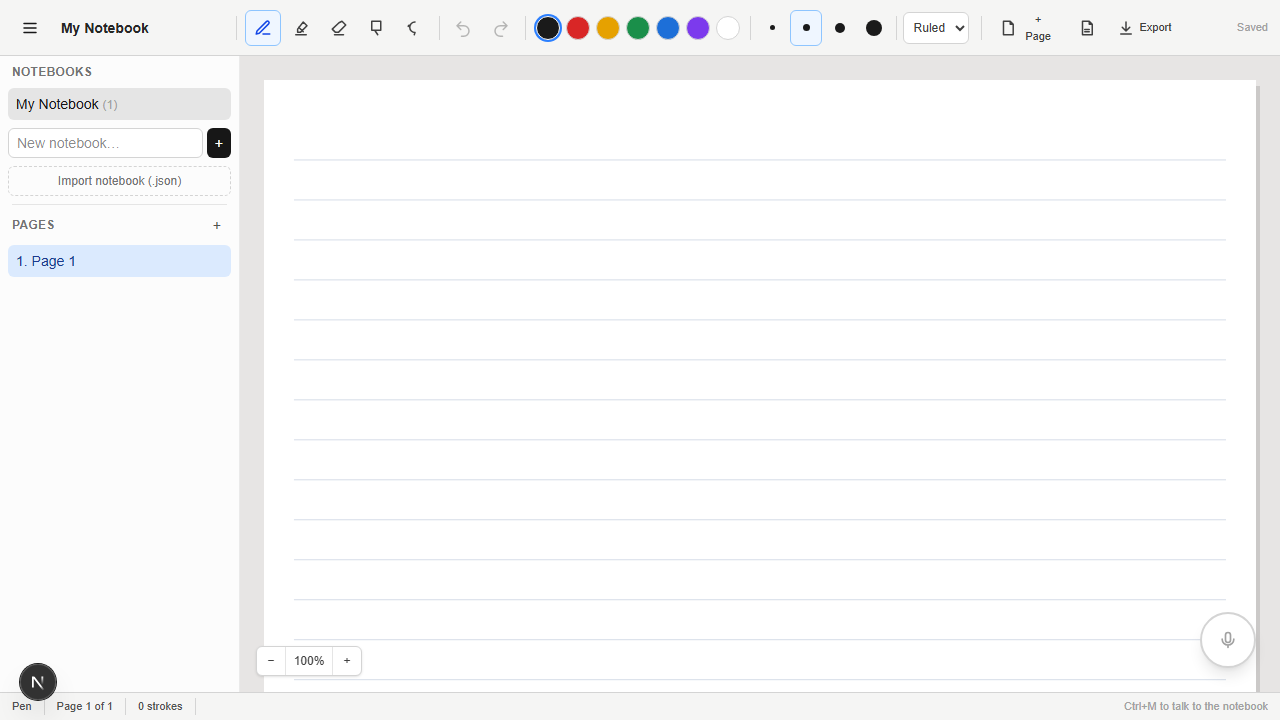
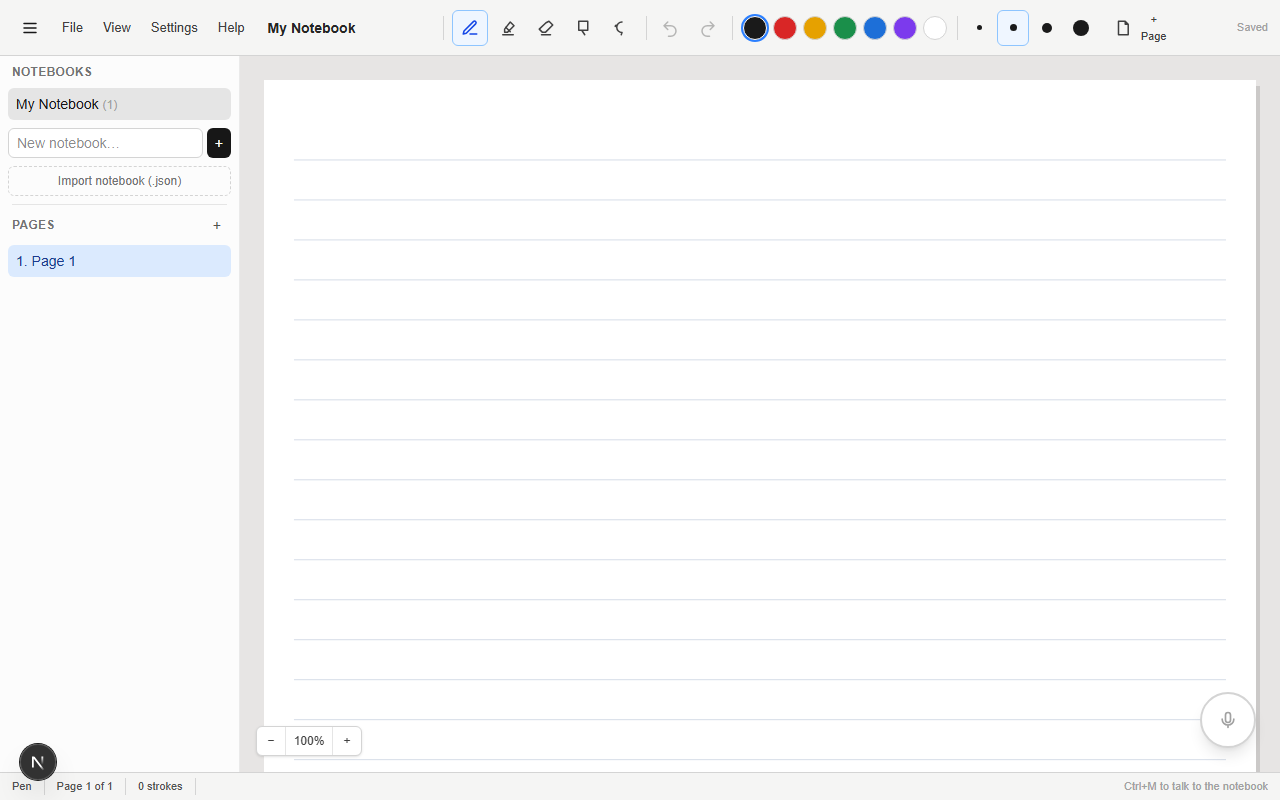
docs: bring README/AGENTS in line with the shipped app; refresh screenshots
README described the pre-tutor architecture: it referenced the deleted
AssistantPanel, per-page history (contradicting the NotebookHistory
section), schema v1 as current, "LaTeX rendered as styled text", and a
next-milestone section for features that already shipped.

- Working features now list the app menu (desktop menubar + mobile
  sheet), the voice tutor commands, KaTeX, verification badges, PDF
  backgrounds, and per-capability model routing.
- Limitations corrected: eraser splits strokes under the cursor rather
  than removing whole strokes; stylus barrel/eraser buttons are not
  detected (also struck through in the manual checklist); voice needs
  Chrome/Edge-class speech APIs; undo isn't kept across reloads.
- Architecture tree matches the real tree (menu/, VoiceDock, StatusBar,
  MathTex, useVoiceAssistant, lib/math/*, lib/pdf, strokeFont, handStyle,
  capture, commands, routing, mockLLM...). "AI-readiness hooks (no UI)"
  became the actual AI insertion API.
- Schema section documents v1→v3; the version-bump recipe is genericized.
- Testing counts updated (290 unit, e2e prod + mock suites, commands).
- Screenshots regenerated with the new UI.
- AGENTS.md: PageHistory→NotebookHistory, menu dir + apiRef note, and
  the workflow is now feature-branch + PR (no direct pushes to main).

Generated with [Devin](https://devin.ai)

diff --git a/README.md b/README.md
@@ -20,12 +20,14 @@ The notebook remains usable on narrow screens with a collapsible, scrollable sid
 
 - **Project name:** Margin AI
 - **Short description:** Write handwritten notes with mouse, touch, or stylus across
-  multiple notebooks and pages. Everything autosaves to the browser (IndexedDB) and
-  survives refresh. AI-generated page elements are stored separately from user ink.
+  multiple notebooks and pages — then ask a voice math tutor to check, finish, hint at,
+  or graph what you wrote. Everything autosaves to the browser (IndexedDB) and survives
+  refresh. AI-generated content is stored separately from user ink.
 - **Team:** TODO — participant names and GitHub handles; maximum 4 members.
 - **Working demo:** Local — `npm install && npm run dev`, open http://localhost:3000.
 - **Technology stack:** Next.js 16 (App Router), React 19, TypeScript (strict),
-  Tailwind CSS 4, HTML Canvas, Pointer Events, IndexedDB (`idb`), `zod`, Vitest.
+  Tailwind CSS 4, HTML Canvas, Pointer Events, IndexedDB (`idb`), `zod`, Vitest,
+  Playwright, KaTeX, mathjs, pdfjs-dist.
 
 ### Run the project
 
@@ -33,10 +35,16 @@ The notebook remains usable on narrow screens with a collapsible, scrollable sid
 2. `npm install`
 3. Environment (only needed for the assistant): copy `.env.example` to `.env.local` and set
    `LLM_API_KEY`. Optional: `LLM_BASE_URL` (any OpenAI-compatible endpoint, default
-   `https://api.openai.com/v1`), `LLM_MODEL` (default `gpt-4o-mini`), `LLM_TIMEOUT_MS`.
-   The notebook works fully without these; the assistant then reports that it is not configured.
+   `https://api.openai.com/v1`; Gemini's documented OpenAI-compatible URL works too),
+   `LLM_MODEL` (default `gpt-4o-mini`), `LLM_FAST_MODEL`/`LLM_VISION_MODEL`/
+   `LLM_REASONING_MODEL` (per-capability routing, all fall back to `LLM_MODEL`;
+   vision requests need `LLM_VISION_MODEL` or an image-capable default), `LLM_TIMEOUT_MS`.
+   The notebook works fully without these; the voice assistant then reports that it is
+   not configured. For development without a key set `LLM_MOCK=true` (dev/test only —
+   refused in production) to get deterministic answers from a mock provider.
 4. `npm run dev` → http://localhost:3000 (or `npm run build && npm start`)
-5. Checks: `npm test` (Vitest), `npm run typecheck`, `npm run lint`.
+5. Checks: `npm test` (Vitest), `npm run typecheck`, `npm run lint`,
+   `npm run test:e2e`, `npm run test:e2e:mock` (see Testing).
 
 ### Current status
 
@@ -44,27 +52,41 @@ The notebook remains usable on narrow screens with a collapsible, scrollable sid
   tools with pressure-aware strokes; notebook-wide undo/redo; notebook and page
   management (create, rename, reorder, and delete with confirmation); blank, ruled,
   and grid paper; debounced autosave with save status; JSON export/import with schema
-  validation; PDF page import; multi-tab conflict warning; responsive collapsible
-  sidebar; and keyboard shortcuts (`P`/`H`/`E`/`S`/`L`, `Ctrl+Z`/`Ctrl+Y`, `Delete`,
-  `Esc`).
-- **Voice assistant:** use the microphone button or `Ctrl+M` to ask a question about
-  the current page. Margin AI captures the selected region (or the whole page), sends
-  the request through the server-only `POST /api/ask` route, and reads the response
-  aloud when browser speech APIs are available. Configure an OpenAI-compatible provider
-  to enable it; note-taking works without an API key.
-- **AI-ready document model:** user ink and AI content are stored on separate layers.
-  Structured answers are validated before use and can be laid out as typed page
+  validation and v1→v3 migration; PDF page import as locked page backgrounds;
+  multi-tab conflict warning; responsive collapsible sidebar; zoom controls; and
+  keyboard shortcuts (`P`/`H`/`E`/`S`/`L`, `Ctrl+Z`/`Ctrl+Y`, `Delete`, `Esc`,
+  `Ctrl+M` for voice).
+- **App menu:** a File/View/Settings/Help menubar on desktop and a bottom sheet on
+  mobile (same item tree, glass style). File handles notebooks, PDF/JSON import and
+  export; View handles sidebar, paper style, zoom, and AI-layer controls; Settings
+  shows the voice toggle and storage status; Help lists every shortcut and voice
+  command.
+- **Voice tutor:** the microphone orb (or `Ctrl+M`) starts hands-free dictation.
+  Recognized commands include *"check my work"*, *"finish this"*, *"hint"*,
+  *"graph this"*, *"read my handwriting"*, *"explain this"*, *"undo"* and
+  *"new page"* — anything else becomes a question about the selection (or page).
+  Answers are written onto the page's AI layer beside the selected ink, in a pen
+  stroke style learned from your own handwriting, and read aloud. Check mode places
+  a tick/cross mark beside each handwriting line; graphs are plotted from real
+  mathjs sampling; and where a deterministic check ran, the answer carries a
+  Verified / Not verified badge. KaTeX renders LaTeX in answer previews.
+- **AI-ready document model:** user ink and AI content are stored on separate layers
+  (schema v3). Structured answers are validated before use and laid out as typed page
   elements. AI content can be hidden, shown, cleared, and undone without modifying
   the user's strokes.
-- **Known limitations:** browsers do not expose reliable palm data, the eraser removes
-  whole strokes only, and multi-tab editing warns but does not merge changes. The voice
-  assistant has no conversation memory, does not stream, and depends on browser speech
-  recognition/synthesis support. LaTeX is currently rendered as styled text. Production
+- **Known limitations:** the eraser splits strokes where the cursor crosses them
+  (whole-stroke delete exists via select + Delete); stylus barrel/eraser-end buttons
+  are not detected yet; the voice assistant needs browser speech recognition and
+  synthesis (Chrome/Edge — the mic orb and Settings entry report unsupported
+  browsers); answers do not stream and there is no conversation memory; undo history
+  is not kept across reloads; multi-tab editing warns but does not merge; production
   deployments need an external per-client rate-limiting gateway (see below).
 - **Libraries, APIs, and public datasets used:**
   [Next.js](https://nextjs.org), [React](https://react.dev),
   [Tailwind CSS](https://tailwindcss.com), [idb](https://github.com/jakearchibald/idb),
   [zod](https://zod.dev), [Vitest](https://vitest.dev),
+  [Playwright](https://playwright.dev), [KaTeX](https://katex.org),
+  [mathjs](https://mathjs.org), [pdfjs-dist](https://mozilla.github.io/pdf.js/),
   [fake-indexeddb](https://github.com/dumbmatter/fakeIndexedDB).
   External API: one OpenAI-compatible chat completions provider of your choice (configured
   via `LLM_BASE_URL`), used only by the assistant. No datasets.
@@ -116,29 +138,56 @@ and full questions are not logged or included in error responses.
 
 ```
 app/                    Next.js App Router shell (single route)
+  api/ask/route.ts      POST endpoint: request validation, delegates to answerService
 components/
-  canvas/PaperCanvas    canvas element: pointer input, DPR handling, rAF paint loop
-  notebook/             Toolbar, Sidebar, NotebookApp (wiring + shortcuts)
+  canvas/PaperCanvas    canvas element: pointer input, DPR handling, rAF paint loop,
+                        zoom apiRef for the View menu
+  menu/                 MenuBar (desktop dropdowns), MobileSheet (bottom sheet),
+                        MenuList + menuModel (one item tree drives both)
+  notebook/             Toolbar, Sidebar, StatusBar, VoiceDock, NotebookApp
+                        (wiring, shortcuts, menu tree), AnswerView (typed answer
+                        blocks), MathTex (KaTeX)
   ErrorBoundary.tsx
+hooks/
+  useNotebook.ts        app store: doc state, tools, autosave, conflicts, AI ops
+  useVoiceAssistant.ts  dictation → intent parse → /api/ask → insert + speak
 lib/
   document/types.ts     document model (Notebook → Page → Layer → Stroke), factories
-  document/schema.ts    zod validation, schemaVersion, migration entry point
-  drawing/geometry.ts   hit-testing, rect intersection, RDP point simplification
-  drawing/coords.ts     client↔page coordinate conversion, fit-scale
-  drawing/render.ts     paper background, smoothed stroke rendering (pressure width)
-  history/history.ts    PageHistory: undoable ops (addStroke, eraseStrokes)
+  document/schema.ts    zod validation, schemaVersion 1–3, migrateNotebook()
+  drawing/geometry.ts   hit-testing, rect/lasso intersection, RDP, stroke splitting
+  drawing/coords.ts     client↔page coordinate conversion, fit-scale, scroll
+  drawing/gesture.ts    pointer gesture state machine (pen/eraser/select/lasso)
+  drawing/render.ts     paper, background image, smoothed pressure strokes
+  drawing/strokeFont.ts AI "hand" ink: glyph strokes in a pen-like style
+  drawing/handStyle.ts  learns the user's handwriting profile for AI ink
+  drawing/capture.ts    offscreen PNG crop of selection/page for vision requests
+  history/history.ts    NotebookHistory: notebook-wide undoable ops
   storage/db.ts         IndexedDB via idb (notebooks + meta stores)
+  storage/autosave.ts   debounced writer with retry + status reporting
   storage/exportImport.ts
-app/api/ask/route.ts    POST endpoint: request validation, delegates to answerService
-lib/ai/llm.ts           server-only OpenAI-compatible client (config from env)
-lib/ai/answerSchema.ts  AnswerDocument Zod schema + block limits (client-safe)
-lib/ai/answerService.ts structured generation: prompt, JSON extraction, validation
-lib/ai/requestProtection.ts  body-size limit + local rate limiting
-lib/ai/types.ts         request/response types and validation shared with the client
-components/notebook/AssistantPanel.tsx   question box + answer list
-components/notebook/AnswerView.tsx       typed renderer for answer blocks
-hooks/useNotebook.ts    app store: doc state, tools, autosave, conflicts, AI ops
-tests/                  Vitest suites (geometry, coords, history, document, storage)
+  ai/llm.ts             server-only OpenAI-compatible client (config from env)
+  ai/answerSchema.ts    AnswerDocument Zod schema + block limits (client-safe)
+  ai/answerService.ts   prompts per tutor mode, JSON extraction, verification
+  ai/requestProtection.ts  body-size limit + local rate limiting
+  ai/routing.ts         fast/vision/reasoning model selection + image payloads
+  ai/commands.ts        transcript → intent parser (tutor/control/ask)
+  ai/answerLayout.ts    lays answer blocks out beside selection or onto pages
+  ai/markLayout.ts      check-mark placement beside handwriting lines
+  ai/contextSchema.ts + contextBuilder.ts   bounded, validated page context
+  ai/imageInput.ts      PNG/JPEG validation for vision requests
+  ai/speech.ts          dictation + speech synthesis wrappers
+  ai/recognition.ts     handwriting-recognition capability boundary (honest "no")
+  ai/mockLLM.ts         deterministic dev/test provider (LLM_MOCK, never in prod)
+  math/verify.ts        deterministic math checks (derivative/equality sampling)
+  math/graph.ts         safe expression sampling → curve polylines
+  math/safeMath.ts      whitelisted mathjs evaluation
+  math/unicodeMath.ts   LaTeX → readable Unicode for handwritten output
+  math/latex.ts         expression → LaTeX for preview
+  math/layoutMath2D.ts  2D fraction/exponent layout in pen strokes
+  pdf/importPdf.ts      pdf.js page→image pipeline with size/page limits
+tests/                  Vitest suites (28 files)
+e2e/                    Playwright: notebook.spec.ts (prod build),
+                        tutor.mock.spec.ts (dev server + LLM_MOCK)
 ```
 
 ### Document model decisions
@@ -150,48 +199,60 @@ tests/                  Vitest suites (geometry, coords, history, document, stor
   merged or overwritten.
 - **Erasing is reversible.** `eraseStrokes` ops record removed strokes + indices and
   append an `EraserOperation` provenance record; undo restores original positions.
-- **Schema versioning.** Version 1 is both the current and oldest supported format.
-  `parseNotebook()` / `migrateNotebook()` validate the complete v1 document, including
-  a user layer on each page. JSON imports and IndexedDB loading/listing use this same
-  policy. Future versions fail with an update instruction; unsupported older versions
-  and malformed versions/documents fail without relabeling or rewriting stored data.
-  No historical migrations exist. Existing v1 defaults for omitted page titles and
-  eraser logs remain supported; complete valid v1 documents retain all modeled data.
-  JSON exports still use `format: "margin-ai-notebook"` and `formatVersion: 1`;
-  importing intentionally generates a fresh notebook ID and updates `updatedAt`.
-- **History scope.** Undo/redo stacks are per page; page structural ops use
-  confirmations (documented trade-off).
+- **Schema versioning.** Version 3 is current; v1 and v2 documents migrate on load
+  (v1→v2 adds typed `elements` to layers; v2→v3 adds the optional locked page
+  `background` used by PDF import). `parseNotebook()` / `migrateNotebook()` validate
+  the complete document, including a user layer on each page. JSON imports and
+  IndexedDB loading/listing use this same policy. Future versions fail with an update
+  instruction; malformed versions/documents fail without relabeling or rewriting
+  stored data. JSON exports still use `format: "margin-ai-notebook"` and
+  `formatVersion: 1`; importing intentionally generates a fresh notebook ID and
+  updates `updatedAt`.
+- **History scope.** Undo/redo is one notebook-wide stack (see "History policy"
+  under Testing); page structural ops use confirmations (documented trade-off).
 
-### Introducing document schema version 2
+### Adding a document schema version
 
-1. Design the actual feature and v2 fields first; do not add speculative fields or
-   invent a pre-v1 format. Keep the v1 validator available with a literal version 1.
-2. Define a separate v2 validator (literal version 2), update the current TypeScript
-   model/factories, and then bump `SCHEMA_VERSION`. The export envelope version and
-   IndexedDB database version are separate from the document schema version.
-3. Add an explicit v1 → v2 step in `migrateNotebook()`. Dispatch on the input version
-   before applying the current validator. Validate the source with its own schema,
-   transform without mutating input, and validate the result with the v2 schema,
-   including page/user-layer invariants. For later versions, run only consecutive
-   steps (v1 → v2 → v3), validate after each step, and validate the final result with
-   the current schema. A missing step must throw, never jump to the current version.
+Versions 1→3 exist as the worked example (v2 added layer `elements`, v3 added page
+`background`). To add the next version:
+
+1. Design the actual feature and new fields first; do not add speculative fields.
+   Keep every older validator available with its literal version number.
+2. Define a separate validator for the new version (literal version N), update the
+   current TypeScript model/factories, and then bump `SCHEMA_VERSION`. The export
+   envelope version and IndexedDB database version are separate from the document
+   schema version.
+3. Add an explicit (N−1)→N step in `migrateNotebook()`. Dispatch on the input
+   version before applying the current validator. Validate the source with its own
+   schema, transform without mutating input, and validate the result with the new
+   schema, including page/user-layer invariants. Run only consecutive steps
+   (v1→v2→v3), validate after each step, and validate the final result with the
+   current schema. A missing step must throw, never jump to the current version.
 4. Keep transformations deterministic: no clock, random IDs, or external calls.
    Preserve existing IDs, pages, layers, strokes, provenance, and metadata. Repeated
    parsing of the migrated/current document must produce the same data.
-5. Add real v1 fixtures and tests for preservation, source/output validation,
-   repeated migration, missing steps, malformed/future versions, JSON round-trips,
-   and IndexedDB loading. Both entry points must continue using the shared parser.
-6. Run tests, typecheck, lint, and build; document actual compatibility and limitations.
-   Loading currently does not write parsed data back to IndexedDB. Any future
-   migration persistence policy must protect the original on failure.
+5. Add real fixtures of the previous version and tests for preservation,
+   source/output validation, repeated migration, missing steps, malformed/future
+   versions, JSON round-trips, and IndexedDB loading. Both entry points must
+   continue using the shared parser.
+6. Run tests, typecheck, lint, and build; document actual compatibility and
+   limitations. Loading currently does not write parsed data back to IndexedDB.
+   Any future migration persistence policy must protect the original on failure.
 
-### AI-readiness hooks (implemented, no UI)
+### AI insertion API
 
-- `selectInRect(rect)` → region/stroke selection
-- `insertAIStrokes(strokes)` → write AI-authored strokes at document coords
-- `setAILayerVisible(bool)` → toggle the AI layer
-- `author` on every stroke/layer distinguishes provenance; cropped region capture is
-  an offscreen `renderPage` call away.
+AI content reaches the page through one explicit, undoable path — used by the voice
+assistant today and reusable by any future UI:
+
+- `insertAnswer(doc, nearIds?)` → lay a validated `AnswerDocument` out beside the
+  selected strokes (or at the bottom of the page), spilling to new pages as needed
+- `insertCheckMarks(checkBlock, strokeIds, lineCount)` → per-line marks for
+  "check my work"
+- `removeAIGroup(groupId)` / `clearAIContent()` / `setAILayerVisible(bool)` →
+  manage AI content; all undoable, never touching user ink
+- `selectInRect(rect)` / `selectInLasso(poly)` → region selection that scopes both
+  context and image capture
+- `author` on every stroke/layer distinguishes provenance.
 
 ## Testing
 
@@ -199,14 +260,19 @@ tests/                  Vitest suites (geometry, coords, history, document, stor
 
 ```bash
 npx playwright install chromium   # once: downloads the browser binary
-npm run test:e2e                  # builds, starts `next start` on :3100, runs e2e/
+npm run test:e2e                  # builds, starts `next start` on :3100, runs notebook.spec.ts
+npm run test:e2e:mock             # dev server on :3200 with LLM_MOCK=true, runs tutor.mock.spec.ts
 ```
 
-`/api/ask` is mocked with deterministic fixtures — no provider calls. The canvas exposes
-read-only `data-user-strokes`, `data-ai-elements`, and `data-ai-visible` attributes for
-the current page so tests can assert document state. Covers drawing/undo/erase,
-multi-page AI insertion undo from another page + redo, reload persistence, and AI-layer
-hide/clear with undo.
+`/api/ask` is mocked with deterministic fixtures — no provider calls, no API charges.
+The canvas exposes read-only `data-user-strokes`, `data-ai-elements`, `data-ai-visible`,
+and `data-has-background` attributes for the current page so tests can assert document
+state, and `window.__margin.run(text)` drives the same code path a spoken utterance
+hits. The prod suite covers drawing/undo/erase, multi-page AI insertion undo from
+another page + redo, reload persistence, and AI-layer hide/clear via the View menu.
+The mock walkthrough covers the voice commands end-to-end: lasso → check marks →
+finish/hint → graph → PDF import → reload → export/import → mobile menu sheet —
+plus legacy v1 export migration.
 
 ### History policy
 
@@ -219,35 +285,45 @@ are undoable.
 
 ### Unit tests (Vitest)
 
-173 tests cover stroke geometry, coordinate conversion under resize, undo/redo,
-eraser transactions and gesture cancellation, validation/migration, user↔AI layer
-separation, IndexedDB save/reload, autosave, the LLM client and request protection,
-the answer schema (all block types, limits, invalid inputs), the generation service
-(JSON extraction, json_schema→json_object fallback, bounded retry, error mapping),
-and the `/api/ask` route. A manual verification checklist follows.
+290 tests across 28 files cover stroke geometry, lasso/gesture state machine,
+coordinate conversion under resize, notebook-wide undo/redo, eraser transactions,
+schema v1–v3 validation/migration, user↔AI layer separation, IndexedDB save/reload,
+autosave, handwriting-style analysis and glyph rendering, answer layout and mark
+placement, the answer schema (all block types, limits, invalid inputs), the
+generation service (prompts per mode, JSON extraction, bounded retry, error mapping),
+intent parsing, model routing, image validation, deterministic math verification,
+graph sampling and unsafe-expression rejection, PDF import, speech text, the LLM
+client, request protection, and the `/api/ask` route. A manual verification
+checklist follows.
 
 ### Manual verification checklist
 
 **Mouse**
 - [ ] Draw smooth curves; no jagged straight segments between distant points
 - [ ] Highlighter is translucent
-- [ ] Eraser removes whole strokes under the cursor, not neighboring ones
+- [ ] Eraser removes only the ink under the cursor (strokes split); neighbors are untouched
 - [ ] Undo/redo restores the exact stroke order
 - [ ] Refresh mid-session — all strokes return
 
 **Touchscreen**
 - [ ] Drawing doesn't scroll the page; sidebar still scrolls normally
 - [ ] Sidebar overlays the canvas on small screens; tools remain reachable
+- [ ] The ⋮ button opens the bottom-sheet app menu; sheet sections expand and close
 
 **Stylus**
 - [ ] Stroke width varies with pressure (if the device reports it)
 - [ ] No double-strokes or dropped strokes on pen-down/pen-up
-- [ ] Pen eraser end erases (if mapped to button 0)
+- [ ] ~~Pen eraser end erases~~ — not implemented: barrel/eraser buttons aren't detected (known limitation)
 
-## Next milestone (recommended): render answers onto the page
+**Voice tutor** (needs `LLM_MOCK=true` or a real provider key)
+- [ ] Write two math lines, lasso them, say "check my work" — marks land beside each line; Ctrl+Z removes them
+- [ ] Say "graph this" on a function — axes and curve appear on the AI layer
+- [ ] Say "finish this" / "hint" — the answer lands beside the selection in pen-like ink
 
-1. Selection → context extraction (stroke JSON + offscreen region raster).
-2. LLM transport for inference.
-3. `insertAIStrokes` to place generated strokes on the AI layer.
-4. AI layer management UI: visibility toggle, accept/reject per group, and a `text`
-   object type via a `schemaVersion` migration.
+## Ideas / next steps
+
+- Detect stylus eraser-end/barrel buttons (`button === 5`) and map to the eraser
+- Pinch-to-zoom on touch devices
+- Streaming answers to reduce perceived latency
+- Real dark theme (the `prefers-color-scheme` block in `globals.css` is only half-wired)
+- Conversation memory for the voice assistant

diff --git a/AGENTS.md b/AGENTS.md
@@ -13,7 +13,9 @@ This block is written and re-added by `next dev` — verify at `node_modules/nex
 - Commands: `npm install`, `npm run dev`, `npm run build`, `npm test` (Vitest), `npm run typecheck`, `npm run lint`.
 - The notebook document model lives in `lib/document/` — keep `author` separation between `user` and `ai` layers; never merge AI content into the user layer. Layers hold `strokes` (user ink) and `elements` (typed AI content: text/line/rect).
 - Stroke coordinates are document-space (page units), not screen pixels; use `lib/drawing/coords.ts` for conversion. Document schema is versioned (`SCHEMA_VERSION`); changes need a migration step in `lib/document/schema.ts`.
-- Undo/redo uses `PageHistory` in `lib/history/`; editing features must be reversible operations (`addStroke`, `eraseStrokes`, `insertElements`, `removeElements`).
-- AI calls go through `app/api/ask/route.ts` → `lib/ai/answerService.ts` → `lib/ai/llm.ts`; never import `llm.ts`/`answerService.ts` from client components or expose `LLM_*` env vars to the browser. Model output is validated by `lib/ai/answerSchema.ts` before use; insertion lays answers out via `lib/ai/answerLayout.ts`.
+- Undo/redo uses one notebook-wide `NotebookHistory` in `lib/history/`; editing features must be reversible operations (`addStroke`, `eraseStrokes`, `insertElements`, `removeElements`, `setLayerVisibility`). Deleting a page prunes history entries that reference it.
+- AI calls go through `app/api/ask/route.ts` → `lib/ai/answerService.ts` → `lib/ai/llm.ts`; never import `llm.ts`/`answerService.ts` from client components or expose `LLM_*` env vars to the browser. Model output is validated by `lib/ai/answerSchema.ts` before use; insertion lays answers out via `lib/ai/answerLayout.ts` / `markLayout.ts` (check marks). `LLM_MOCK=true` gives a deterministic provider in dev/test only.
+- The voice assistant lives in `hooks/useVoiceAssistant.ts` + `components/notebook/VoiceDock.tsx`; transcripts are parsed by `lib/ai/commands.ts` and `window.__margin.run(text)` is the Playwright hook (same code path).
+- App menu: one `MenuSection` tree built in `NotebookApp` feeds `components/menu/MenuBar` (desktop dropdowns) and `MobileSheet` (mobile bottom sheet) — add items there once. Zoom items reach `PaperCanvas` through its `apiRef`.
+- **Commit after every step** on a feature branch, push the branch, and open a PR to `main` (owner preference). Never push directly to `main`; never force-push.
 - AI "hand" text renders as real pen strokes via `lib/drawing/strokeFont.ts` (glyphs in `glyphs.json`, rebuilt by `scripts/build-glyphs.mjs`), driven by a live `HandProfile` learned from the user's ink in `lib/drawing/handStyle.ts` and published in `useNotebook` (`setHandProfile` + repaint bump). `sizeFactor`/`inkColor` are frozen into elements at insertion; slant/jitter/pen-width/pressure are render-time cosmetics — keep it that way so layout stays deterministic.
-- **Commit after every step** and **push after every commit** (owner preference) to `origin/main`. Never force-push; if rejected, fetch and merge first.
